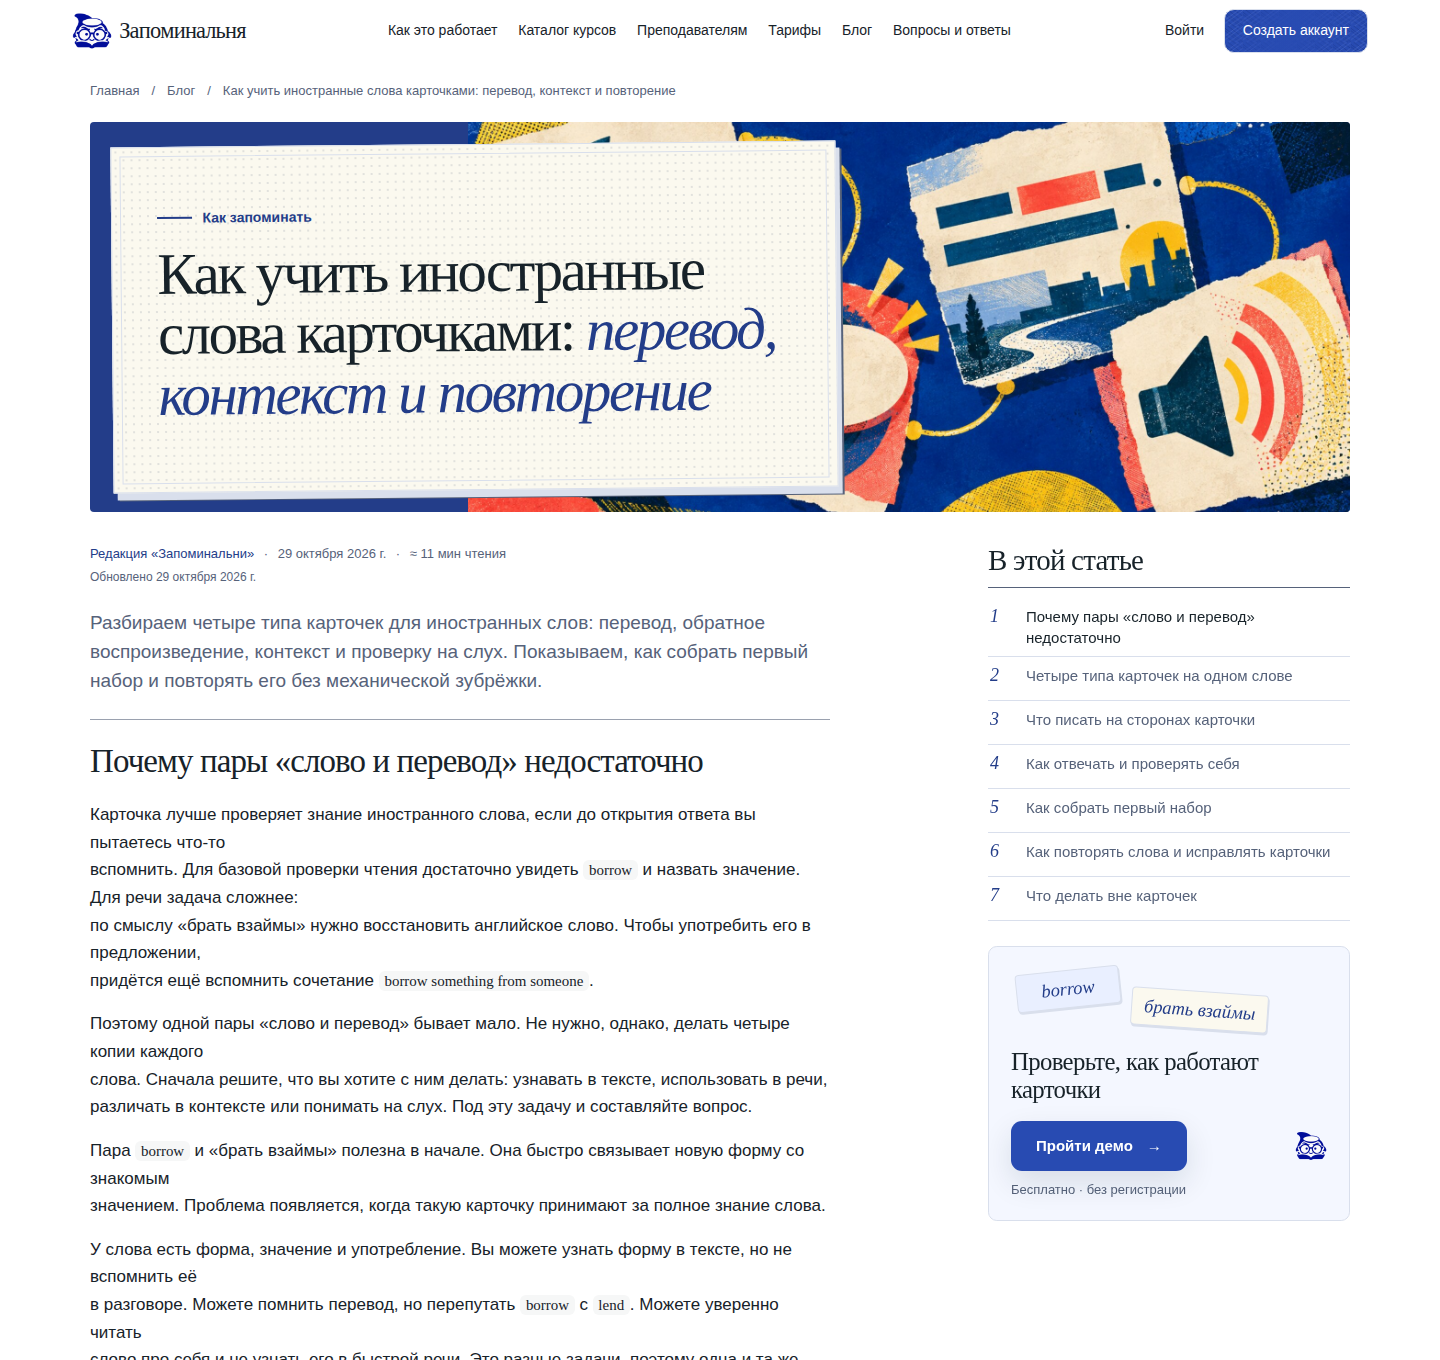
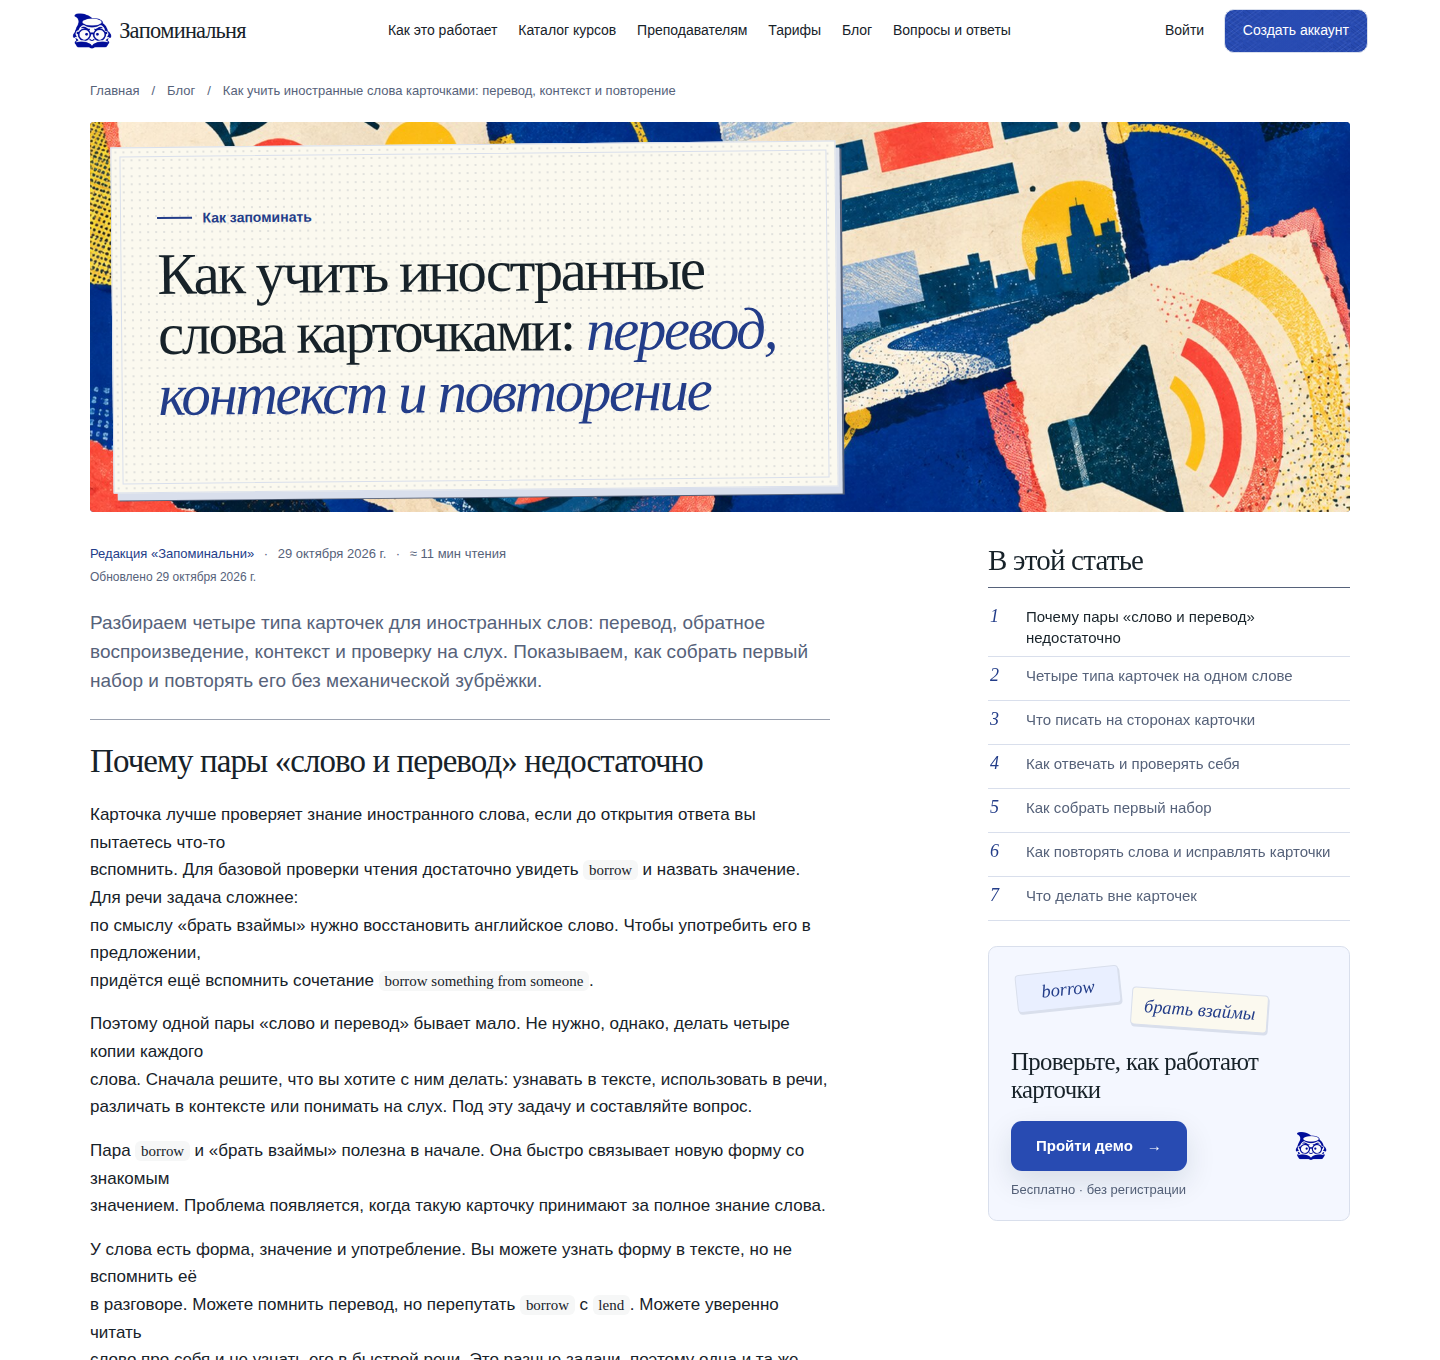
Проверил обложку и навигацию статьи

Changed region(s): [[0.0625, 0.0926, 0.9375, 0.4015]]

diff --git a/apps/web/src/app/blog/[slug]/article.css b/apps/web/src/app/blog/[slug]/article.css
@@ -32,8 +32,11 @@
 }
 .article-jacket-media {
   position: absolute;
-  inset: 0 0 0 30%;
+  inset: 0;
   z-index: -1;
+}
+.article-jacket-media:has(.blog-diagram) {
+  inset-inline-start: 30%;
 }
 .article-jacket-media > img {
   width: 100%;
@@ -312,6 +315,10 @@
     position: relative;
     inset: auto;
     aspect-ratio: 2.2;
+  }
+  .article-jacket-media:has(.blog-diagram) {
+    inset-inline-start: auto;
+    min-height: 9rem;
   }
   .article-jacket-media .blog-diagram {
     min-height: 0;

diff --git a/TODO.md b/TODO.md
@@ -37,7 +37,7 @@
 - [x] Выбрать вариант В «Обложка с титульным листом» и подготовить [сценарий и видеопревью сгиба бумаги](docs/blog-redesign/article/motion/README.md). Проверены положение заголовка и возврат к исходному кадру.
 - [x] Сверстать [статью с титульным листом](docs/blog-redesign/article/concepts/c-cover-preview.png). Проверены редакционная обложка и запасная схема на ширинах от 320 до 3840 px.
 - [x] Подключить сгиб титульного листа. Проверены пауза, возврат, повтор, неподвижность названия, касание и сокращённое движение.
-- [ ] Проверить чтение статьи, оглавление, демо, связанные материалы и работу без JavaScript.
+- [x] Проверить сценарии страницы статьи: содержание и источники, переходы оглавления, демо и регистрацию, связанные публикации, обе темы и чтение без JavaScript.
 
 - [x] Подготовить [три визуальных концепта публичного каталога курсов](seo/audit/catalog/concepts/) для выбора композиции.
 - [x] Для выбранной композиции А «Картотека» подготовить [превью движения карточки и описание для вёрстки](seo/audit/catalog/motion/README.md).
